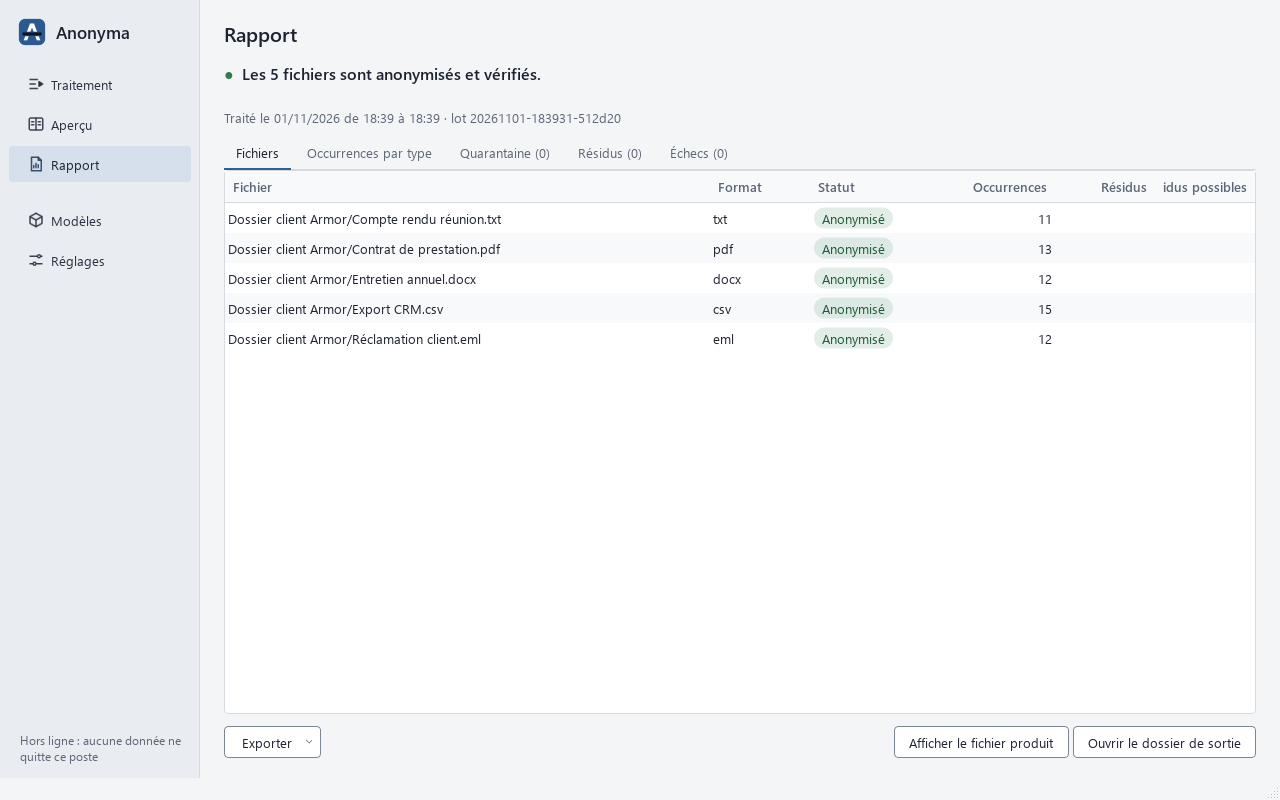
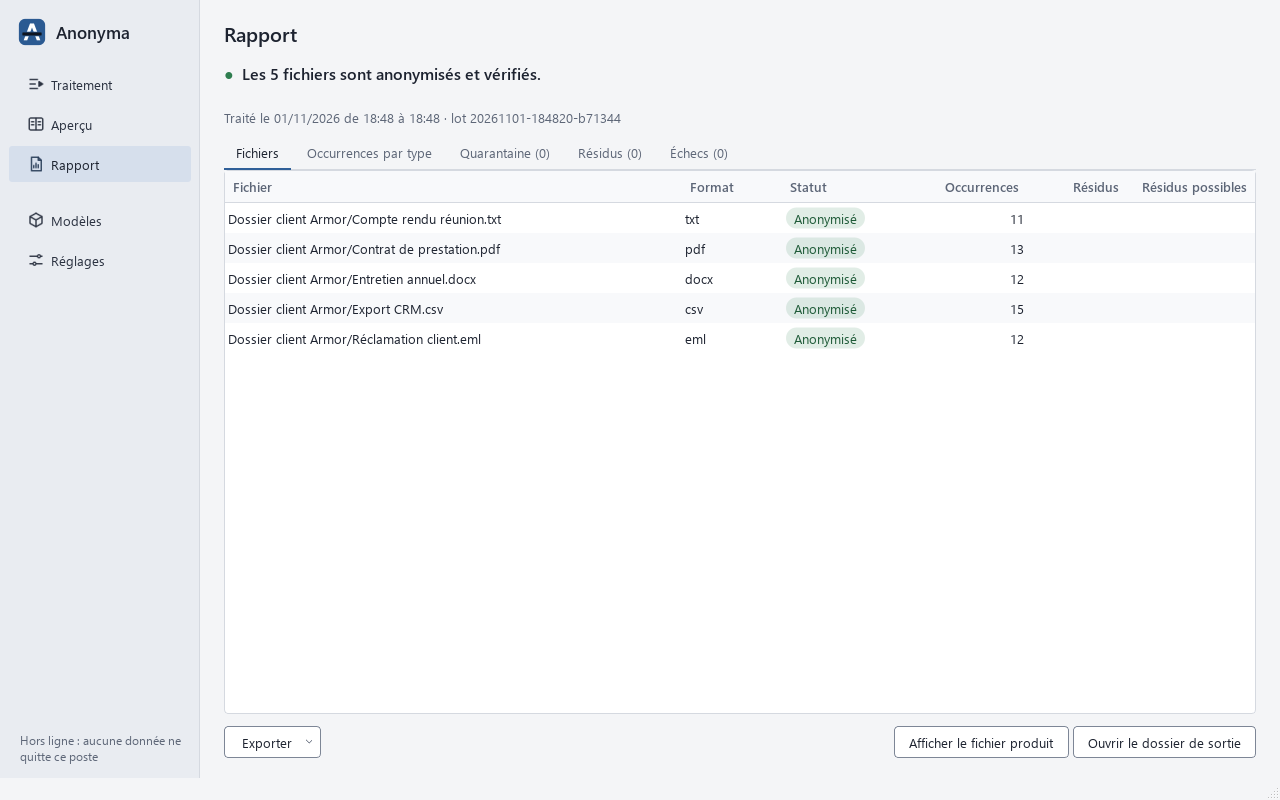
GUI: report titles kept whole, long substitutes shown in the visual preview
« Résidus possibles » was cut to « idus possibles » at 1280 px: the report
tables now size each column to at least its title. In the visual preview,
a substitute wider than the original's box (« Brest » -> a longer town) was
left out, so the box read as a blank; it is now shrunk like the writers do
in the file, then cut with « … » (the tooltip keeps it whole). README
screenshots retaken with both fixes.

diff --git a/anonyma/gui/visual.py b/anonyma/gui/visual.py
@@ -20,6 +20,7 @@ from PySide6.QtGui import (
     QBrush,
     QColor,
     QFont,
+    QFontMetricsF,
     QImage,
     QPen,
     QPixmap,
@@ -52,6 +53,8 @@ MAX_SIDE = 2400
 CACHE_SIZE = 8
 #: Smallest automatic zoom (a PDF rendered at ``PDF_ZOOM`` shown at about 100 %).
 MIN_FIT_ZOOM = 0.5
+#: Smallest label of a box, in page pixels: below, the label is cut with « … ».
+MIN_LABEL_PX = 6
 
 
 def visual_kind(doc: Document) -> str | None:
@@ -179,6 +182,30 @@ class Box:
 BoxProvider = Callable[[int], list[Box]]
 
 
+def _box_label(label: str, rect: QRectF) -> QGraphicsSimpleTextItem:
+    """The substitute written in a box: shrunk to the box width like the writers
+    shrink it in the file, then cut with « … » if even the smallest size is too wide
+    (the tooltip keeps it whole). Never left out: an empty box reads as a blank."""
+    font = QFont()
+    size = max(MIN_LABEL_PX, min(int(rect.height() * 0.7), 18))
+    font.setPixelSize(size)
+    room = rect.width() - 2
+    width = QFontMetricsF(font).horizontalAdvance(label)
+    if width > room:
+        # Proportional first guess, then down a pixel at a time (hinting is not linear).
+        size = max(MIN_LABEL_PX, min(size, int(size * room / width)))
+        font.setPixelSize(size)
+        while size > MIN_LABEL_PX and QFontMetricsF(font).horizontalAdvance(label) > room:
+            size -= 1
+            font.setPixelSize(size)
+    metrics = QFontMetricsF(font)
+    if metrics.horizontalAdvance(label) > room:
+        label = metrics.elidedText(label, Qt.TextElideMode.ElideRight, max(room, 0.0))
+    text = QGraphicsSimpleTextItem(label)
+    text.setFont(font)
+    return text
+
+
 class PageView(QGraphicsView):
     """One rendered page with box overlays; Ctrl+wheel requests a zoom."""
 
@@ -219,17 +246,13 @@ class PageView(QGraphicsView):
             if box.tooltip:
                 item.setToolTip(box.tooltip)
             if box.label and box.fill is not None and rect.height() >= 9:
-                text = QGraphicsSimpleTextItem(box.label)
-                font = QFont()
-                font.setPixelSize(max(8, min(int(rect.height() * 0.7), 18)))
-                text.setFont(font)
+                text = _box_label(box.label, rect)
                 text.setBrush(
                     QColor(theme.tokens().text if box.fill.lightness() > 128 else "#ffffff")
                 )
                 bounds = text.boundingRect()
-                if bounds.width() <= rect.width() + 2:
-                    text.setParentItem(item)
-                    text.setPos(rect.x() + 2, rect.y() + (rect.height() - bounds.height()) / 2)
+                text.setParentItem(item)
+                text.setPos(rect.x() + 2, rect.y() + (rect.height() - bounds.height()) / 2)
             if box.key is not None:
                 self.items_by_key[box.key] = item
         scene.setSceneRect(QRectF(page.image.rect()))

diff --git a/tests/gui/test_visual.py b/tests/gui/test_visual.py
@@ -6,11 +6,12 @@ from pathlib import Path
 from typing import Any
 
 import pytest
+from PySide6.QtCore import QRectF
 
 from anonyma.config import Config
 from anonyma.gui.main_window import MainWindow
 from anonyma.gui.textview import header_label, ordered_segments
-from anonyma.gui.visual import render_page
+from anonyma.gui.visual import MIN_LABEL_PX, _box_label, render_page
 from anonyma.models import BBox, Document, Segment, SegmentContext, SegmentKind
 from tests.gui.conftest import prepare
 
@@ -126,3 +127,19 @@ def test_only_user_errors_are_shown_verbatim() -> None:
     # A library ValueError may quote a value of the document.
     leaked = user_message(ValueError("invalid literal for int(): 'Quintavalle'"))
     assert "Quintavalle" not in leaked and "ValueError" in leaked
+
+
+def test_long_substitute_is_shrunk_then_cut_never_left_out(qapp: Any) -> None:
+    """« Brest » -> « Enghien-les-Bains »: the box keeps the width of the original;
+    its label is shrunk to fit, then cut, instead of disappearing."""
+    short = _box_label("Lyon", QRectF(0, 0, 200, 24))
+    assert short.text() == "Lyon" and short.font().pixelSize() == 16
+    natural = _box_label("Enghien-les-Bains", QRectF(0, 0, 10_000, 24)).boundingRect().width()
+    room = natural * 0.6
+    shrunk = _box_label("Enghien-les-Bains", QRectF(0, 0, room + 2, 24))
+    assert shrunk.text() == "Enghien-les-Bains"
+    assert MIN_LABEL_PX <= shrunk.font().pixelSize() < 16
+    assert shrunk.boundingRect().width() <= room + 1
+    cut = _box_label("Enghien-les-Bains", QRectF(0, 0, natural * 0.15, 24))
+    assert cut.font().pixelSize() == MIN_LABEL_PX
+    assert cut.text() and cut.text().endswith("…")

diff --git a/anonyma/gui/pages/report.py b/anonyma/gui/pages/report.py
@@ -82,7 +82,12 @@ def _table(headers: list[str]) -> QTableWidget:
     table.setAlternatingRowColors(True)
     table.setShowGrid(False)
     left_header(table)
-    table.horizontalHeader().setSectionResizeMode(0, QHeaderView.ResizeMode.Stretch)
+    header = table.horizontalHeader()
+    header.setSectionResizeMode(0, QHeaderView.ResizeMode.Stretch)
+    # A title wider than the default section (« Résidus possibles ») stays whole.
+    header.ensurePolished()
+    for c in range(1, len(headers)):
+        header.resizeSection(c, max(header.sectionSize(c), header.sectionSizeHint(c)))
     return table
 
 

diff --git a/tests/gui/test_window.py b/tests/gui/test_window.py
@@ -318,3 +318,10 @@ def test_update_check_disabled_or_from_sources(
     assert not window.updates.runner.running()
     assert calls == []
     assert window.settings.check_updates.isChecked() is True
+
+
+def test_report_titles_are_never_cut(window: MainWindow) -> None:
+    """« Résidus possibles » is wider than a default section: it keeps its width."""
+    header = window.report.files_table.horizontalHeader()
+    for c in range(1, header.count()):
+        assert header.sectionSize(c) >= header.sectionSizeHint(c)
